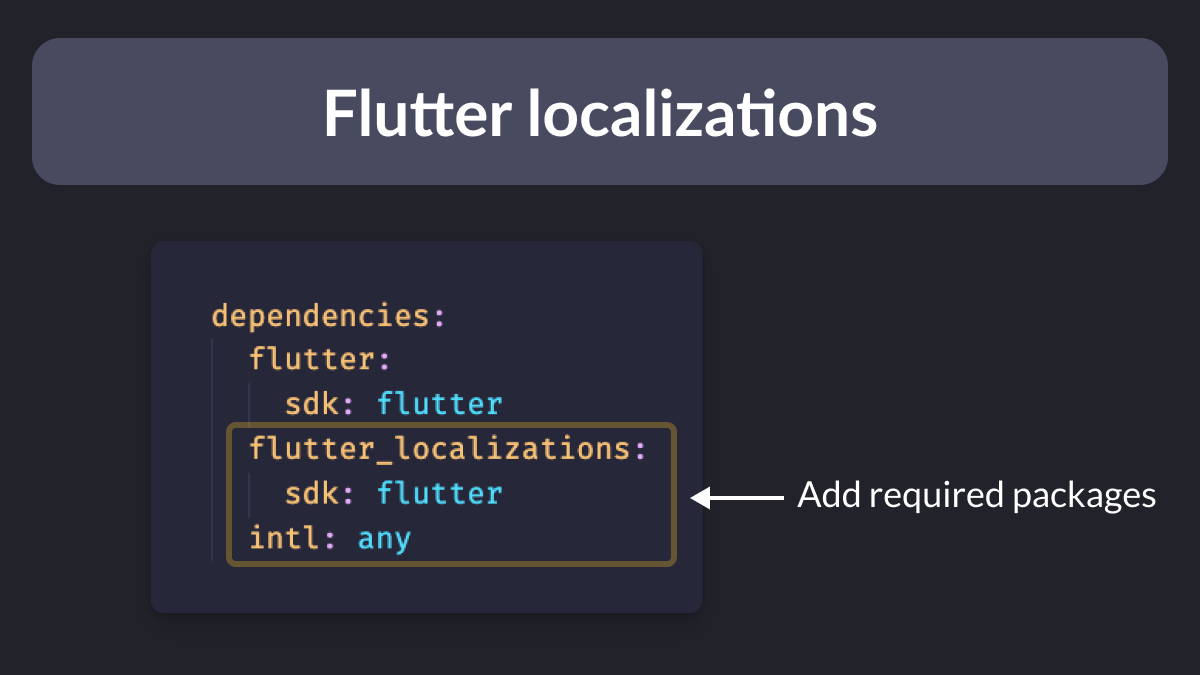
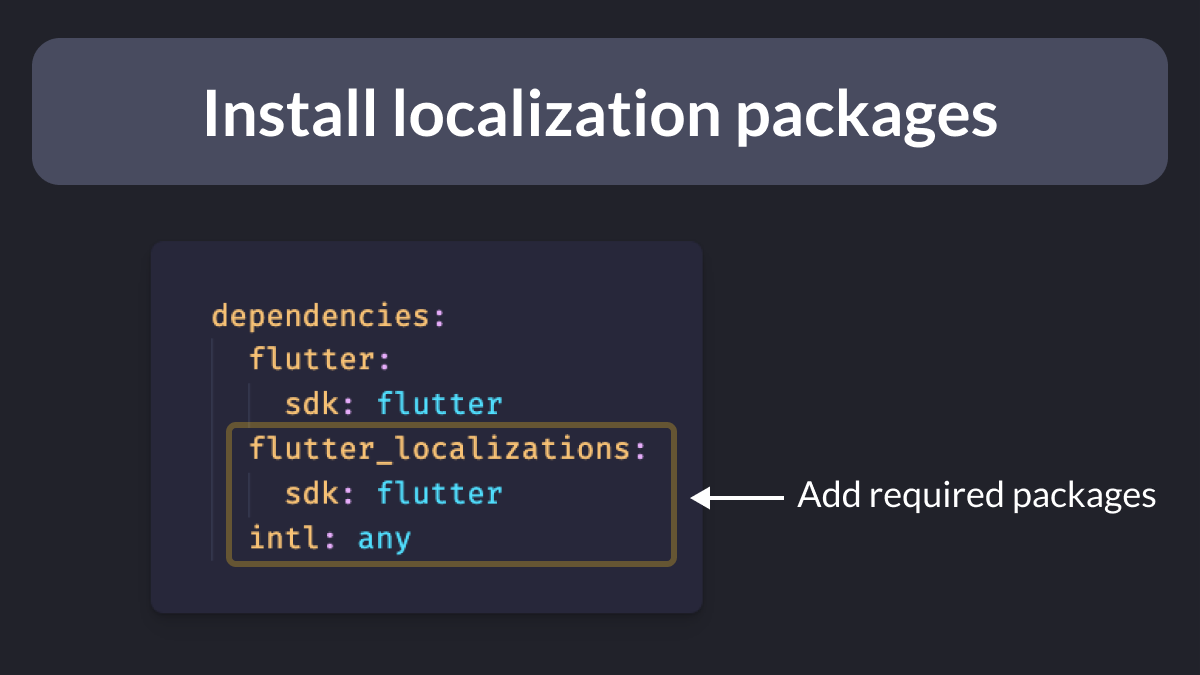
first tweet changes

Changed region(s): [[0.1542, 0.1244, 0.8325, 0.2178]]

diff --git a/tips/0070-localizations/index.md b/tips/0070-localizations/index.md
@@ -1,16 +1,22 @@
 # Localizing Flutter apps with code gen
 
-Did you know that you can set up your Flutter app localizations in 5 minutes, using the Flutter generation tool? 🗺
+If your users speak another language, you’ll need to localize your Flutter app 🗺
 
-Let’s start by adding the required packages: `flutter_localizations` and `intl`.
+Here’s how to setup Flutter app localizations in just 5 minutes (using code generation).
 
-🧵
+🧵 
+
+![](070.0.png)
+
+--
+
+1⃣  As a first step, we need to add the required packages to the pubspec.yaml file.
 
 ![](070.1.png)
 
 ---
 
-1⃣ Create `l10n.yaml` at the root
+2⃣ Create `l10n.yaml` at the root
 
 ✔ `arb-dir` is the directory where Flutter will look for the localized strings
 ✔ Dart localizations classes will be generated in the `output-dir`
@@ -20,7 +26,7 @@ Let’s start by adding the required packages: `flutter_localizations` and `intl
 
 ---
 
-2⃣ Create the ARB files under lib
+3⃣ Create the ARB files under lib
 
 An ARB file is an “application resource bundle” used by Flutter to generate corresponding Dart files. Each locale will have its own ARB file.
 
@@ -30,7 +36,7 @@ For example, to add French, just create app_fr.arb in the same directory.
 
 ---
 
-3⃣ Add the `@@locale` key and the first key/value pair. Note that there is a small difference between the file we declared as a template in l10n.yaml and other ARB files.
+4⃣ Add the `@@locale` key and the first key/value pair. Note that there is a small difference between the file we declared as a template in l10n.yaml and other ARB files.
 
 ![](070.4.png)
 
@@ -44,7 +50,7 @@ Let's see what this means and which one we should choose.👇🏻
 
 ---
 
-4⃣: Synthetic
+5⃣: Synthetic
 
 Set `generate` to true in pubspec.yaml, then run the command `flutter gen-10n` at the root using the terminal. This will generate a new package under .dart_tool, which ignores the `output-dir` we specified earlier in `l10n.yaml`.
 
@@ -52,7 +58,7 @@ Set `generate` to true in pubspec.yaml, then run the command `flutter gen-10n` a
 
 ---
 
-4⃣: Non-synthetic
+5⃣: Non-synthetic
 
 We might want the localizations files to be in the `output-dir`, as `.dart_tool` is often ignored.
 
@@ -85,7 +91,7 @@ As noted earlier, both extend the base class `AppLocalizations`.
 
 ---
 
-5⃣ Finally, we need to add the localizations delegate to our `MaterialApp`. 
+6⃣ Finally, we need to add the localizations delegate to our `MaterialApp`. 
 
 We can then use it anywhere in the app!🚀
 
